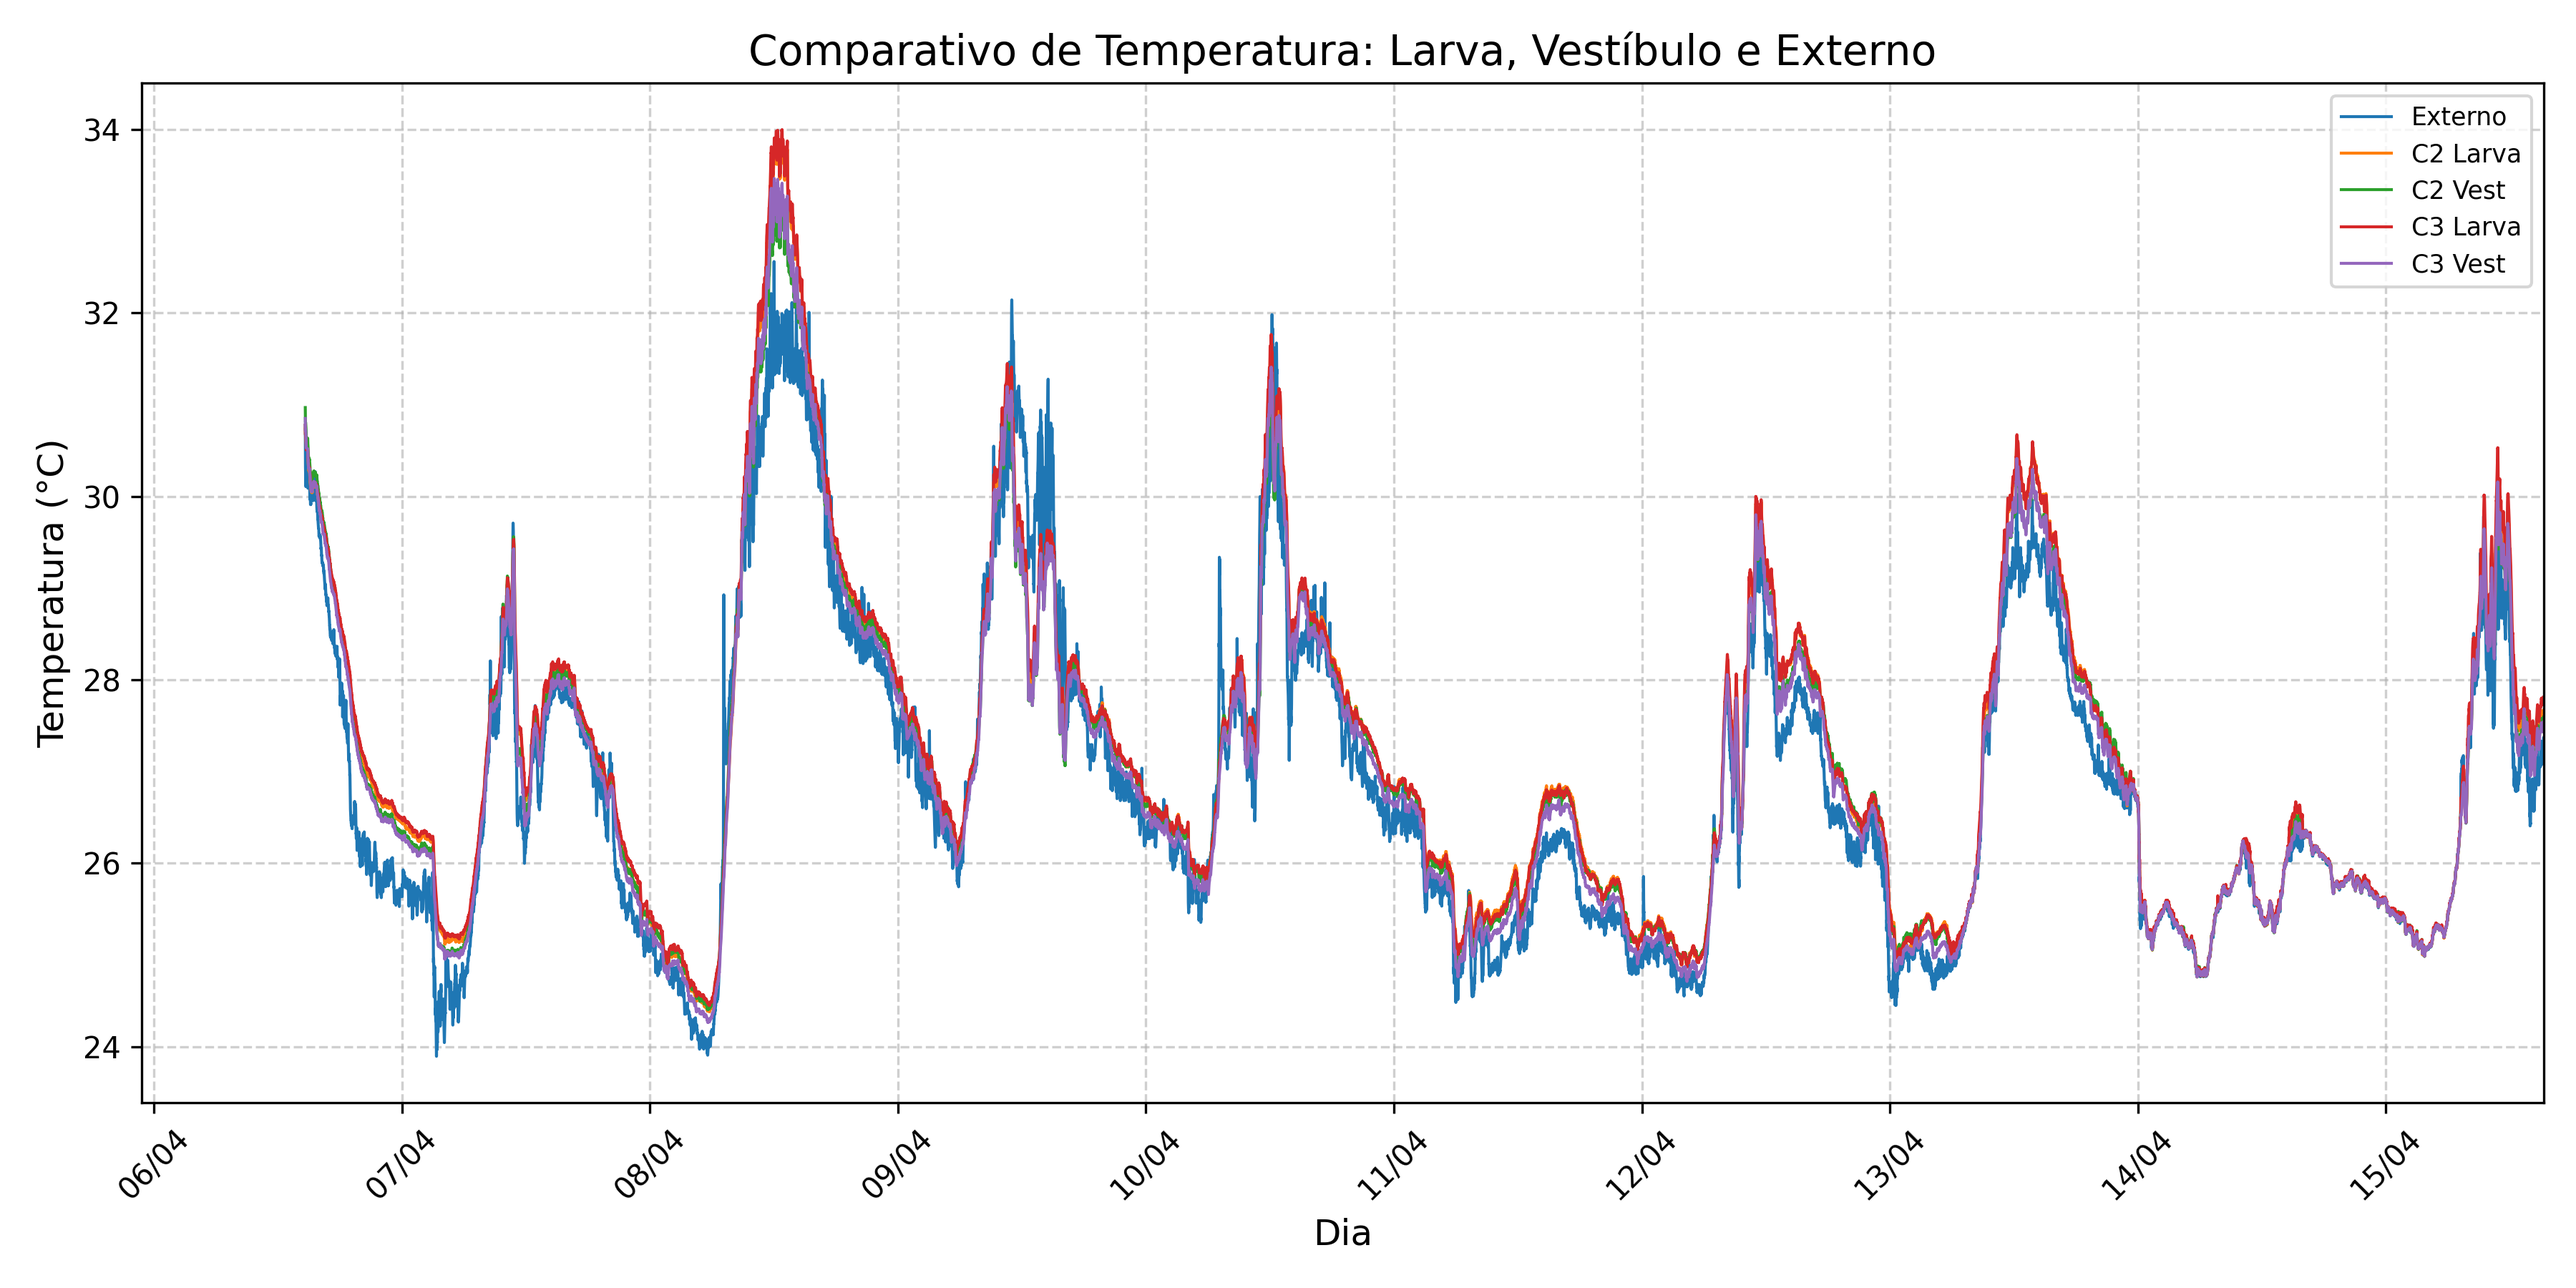
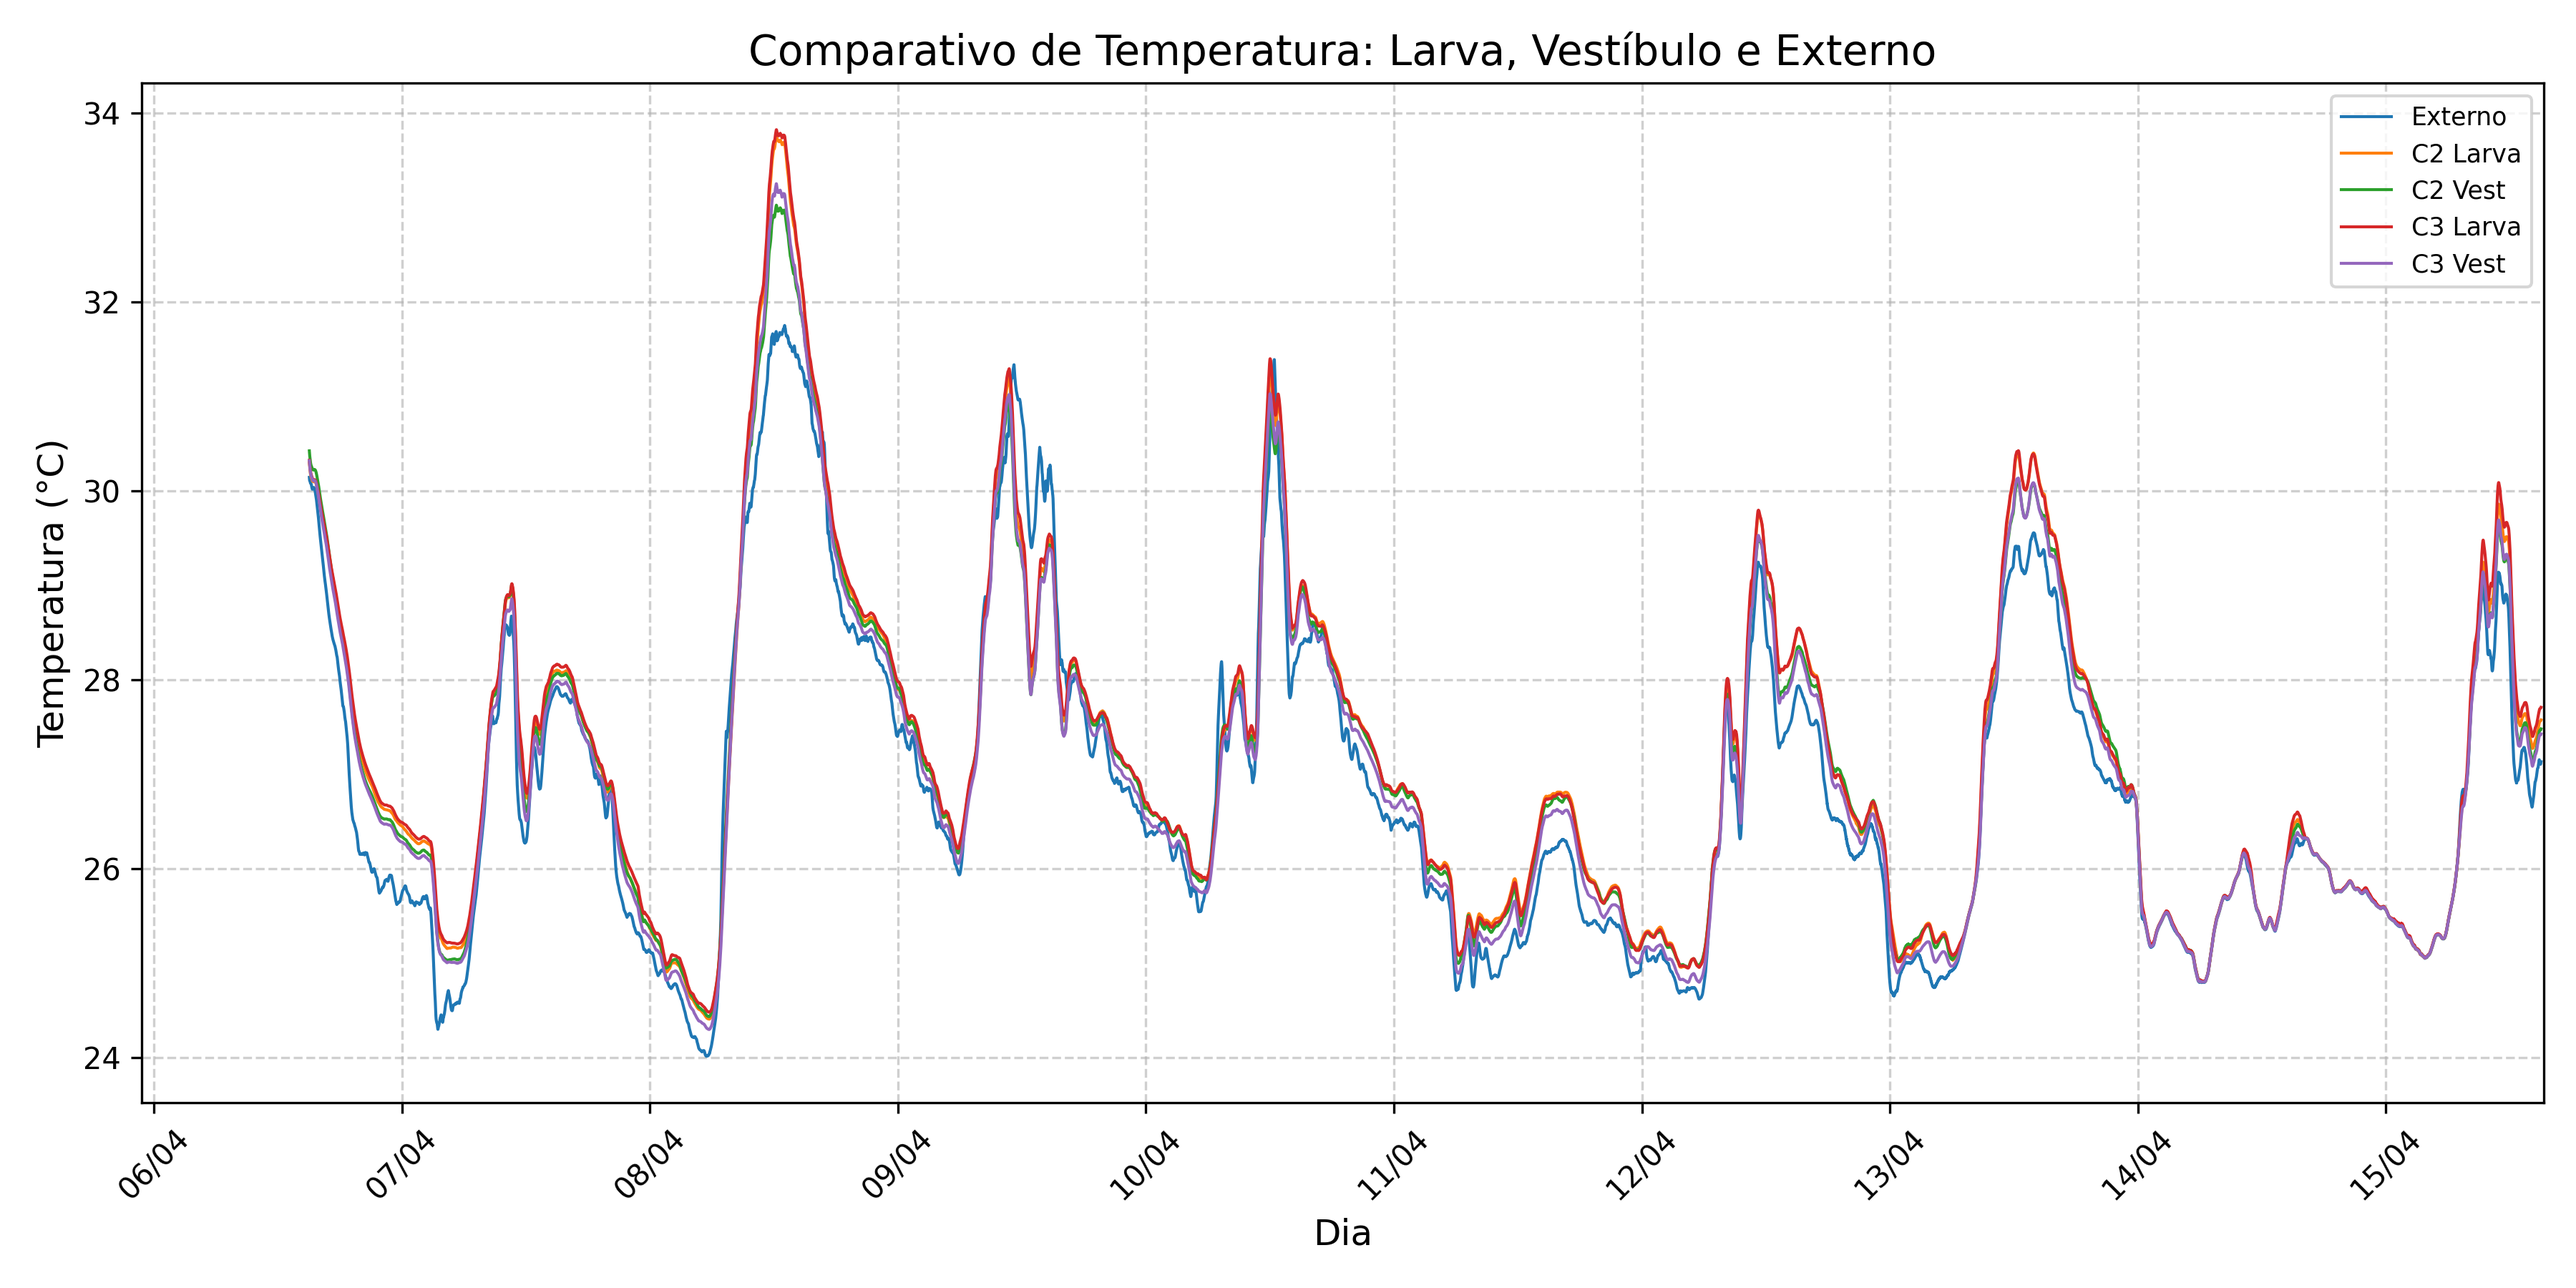
feat: atualização do script comparativo e dos graficos gerados

diff --git a/scripts/graficoComparativo.py b/scripts/graficoComparativo.py
@@ -30,7 +30,7 @@ def gerar_grafico_comparativo(colunas, titulo_principal, label_y, nome_arquivo):
     plt.figure(figsize=(12, 6))
     
     for col in colunas:
-        plt.plot(df['DataHora'], df[col].rolling(window=12,center=True).mean(), label=mapa_legendas.get(col, col), linewidth=1)
+        plt.plot(df['DataHora'], df[col].rolling(window=360,center=True).mean(), label=mapa_legendas.get(col, col), linewidth=1)
 
     # customização do gráfico
     plt.title(titulo_principal, fontsize=14)
